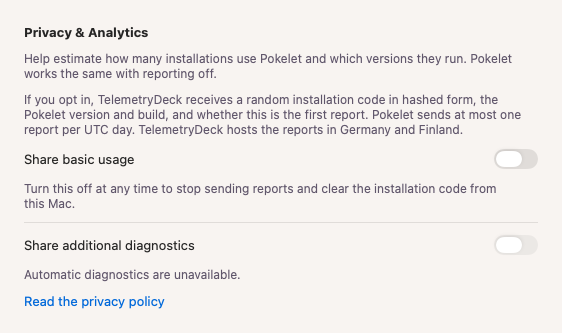
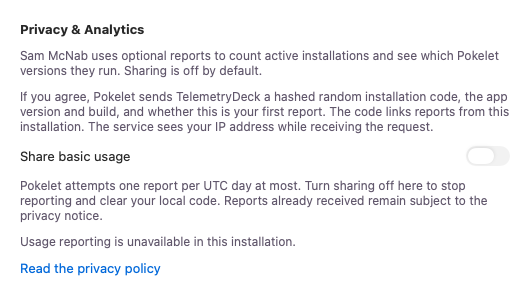
fix(privacy): clear superseded consent and simplify usage sharing

diff --git a/Tests/PokeletCoreTests/UsageAnalyticsTests.swift b/Tests/PokeletCoreTests/UsageAnalyticsTests.swift
@@ -121,6 +121,36 @@ final class UsageAnalyticsTests: XCTestCase {
         await fulfillment(of: [extraRequest], timeout: 0.2)
     }
 
+    func testObsoleteConsentIsClearedBeforeReportingEvenWhenUnavailable() throws {
+        for configured in [false, true] {
+            let suite = UUID().uuidString
+            let defaults = try XCTUnwrap(UserDefaults(suiteName: suite))
+            defer { defaults.removePersistentDomain(forName: suite) }
+            let key = "PokeletUsageAnalytics"
+            let oldID = UUID().uuidString
+            let attemptDay = Int(day.timeIntervalSince1970 / 86_400)
+            let old: [String: Any] = [
+                "consent": ["revision": 1, "grantedAt": 0, "installationID": oldID],
+                "lastAttemptDay": attemptDay
+            ]
+            defaults.set(try JSONSerialization.data(withJSONObject: old), forKey: key)
+            let analytics = configured ? makeAnalytics(defaults) : UsageAnalytics(configuration: nil, defaults: defaults)
+            defer { analytics.stop() }
+            XCTAssertFalse(analytics.isEnabled)
+            let cleared = try XCTUnwrap(JSONSerialization.jsonObject(with: XCTUnwrap(defaults.data(forKey: key))) as? [String: Int])
+            XCTAssertEqual(cleared, ["lastAttemptDay": attemptDay])
+            analytics.setEnabled(true, now: day)
+            XCTAssertEqual(analytics.isEnabled, configured)
+            if configured {
+                let data = try XCTUnwrap(defaults.data(forKey: key))
+                let stored = try XCTUnwrap(JSONSerialization.jsonObject(with: data) as? [String: Any])
+                let consent = try XCTUnwrap(stored["consent"] as? [String: Any])
+                XCTAssertNotEqual(try XCTUnwrap(consent["installationID"] as? String), oldID)
+                XCTAssertEqual(consent["revision"] as? Int, 2)
+            }
+        }
+    }
+
     func testNamespaceStaysWithinOneIngestPathSegment() {
         let withoutNamespace = UsageAnalytics.Configuration(appID: appID, namespace: nil, version: "1.3.1", build: "6")
         XCTAssertEqual(withoutNamespace?.endpoint.absoluteString, "https://nom.telemetrydeck.com/v2/")

diff --git a/Pokelet/Views/PrivacyAnalyticsSettings.swift b/Pokelet/Views/PrivacyAnalyticsSettings.swift
@@ -5,24 +5,18 @@ struct PrivacyAnalyticsSettings: View {
 
     var body: some View {
         StudioSection("Privacy & Analytics") {
-            StudioNote("Help estimate how many installations use Pokelet and which versions they run. Pokelet works the same with reporting off.")
-            StudioNote("If you opt in, TelemetryDeck receives a random installation code in hashed form, the Pokelet version and build, and whether this is the first report. Pokelet sends at most one report per UTC day. TelemetryDeck hosts the reports in Germany and Finland.")
+            StudioNote("Sam McNab uses optional reports to count active installations and see which Pokelet versions they run. Sharing is off by default.")
+            StudioNote("If you agree, Pokelet sends TelemetryDeck a hashed random installation code, the app version and build, and whether this is your first report. The code links reports from this installation. The service sees your IP address while receiving the request.")
             StudioSwitch("Share basic usage", isOn: Binding(
                 get: { analytics.isEnabled },
                 set: { analytics.setEnabled($0) }
             ))
             .disabled(!analytics.isAvailable)
 
-            if analytics.isAvailable {
-                StudioNote("Turn this off at any time to stop sending reports and clear the installation code from this Mac.")
-            } else {
+            StudioNote("Pokelet attempts one report per UTC day at most. Turn sharing off here to stop reporting and clear your local code. Reports already received remain subject to the privacy notice.")
+            if !analytics.isAvailable {
                 StudioNote("Usage reporting is unavailable in this installation.")
             }
-
-            Divider()
-            StudioSwitch("Share additional diagnostics", isOn: .constant(false))
-                .disabled(true)
-            StudioNote("Automatic diagnostics are unavailable.")
             Link("Read the privacy policy", destination: URL(string: "https://smcnab1.github.io/pokelet/privacy/")!)
         }
     }

diff --git a/Pokelet/Services/UsageAnalytics.swift b/Pokelet/Services/UsageAnalytics.swift
@@ -46,7 +46,7 @@ final class UsageAnalytics: ObservableObject {
     }
 
     private static let stateKey = "PokeletUsageAnalytics"
-    private static let noticeRevision = 1
+    private static let noticeRevision = 2
     private static let secondsPerDay: TimeInterval = 86_400
 
     @Published private(set) var isEnabled = false
@@ -64,7 +64,12 @@ final class UsageAnalytics: ObservableObject {
         self.configuration = configuration
         self.makeSession = makeSession
         isAvailable = configuration != nil && !defaults.bool(forKey: Self.developerExclusionKey)
-        isEnabled = isAvailable && state.consent?.revision == Self.noticeRevision
+        let stored = state
+        if let consent = stored.consent, consent.revision < Self.noticeRevision {
+            setEnabled(false)
+        } else {
+            isEnabled = isAvailable && stored.consent?.revision == Self.noticeRevision
+        }
     }
 
     private var state: State {

diff --git a/CHANGELOG.md b/CHANGELOG.md
@@ -12,7 +12,7 @@ Title: Pokelet 1.4.0 Beta 6
 ### Added
 
 - Studio → Updates links to the stable installer. You choose whether to download and install it.
-- Privacy & Analytics in Studio → General. Usage reporting and additional diagnostics are unavailable in this beta.
+- Privacy & Analytics in Studio → General. Usage reporting is unavailable in this beta. A material change to the notice clears earlier consent and its installation code.
 
 ## [v1.3.1] - 2026-11-26
 
